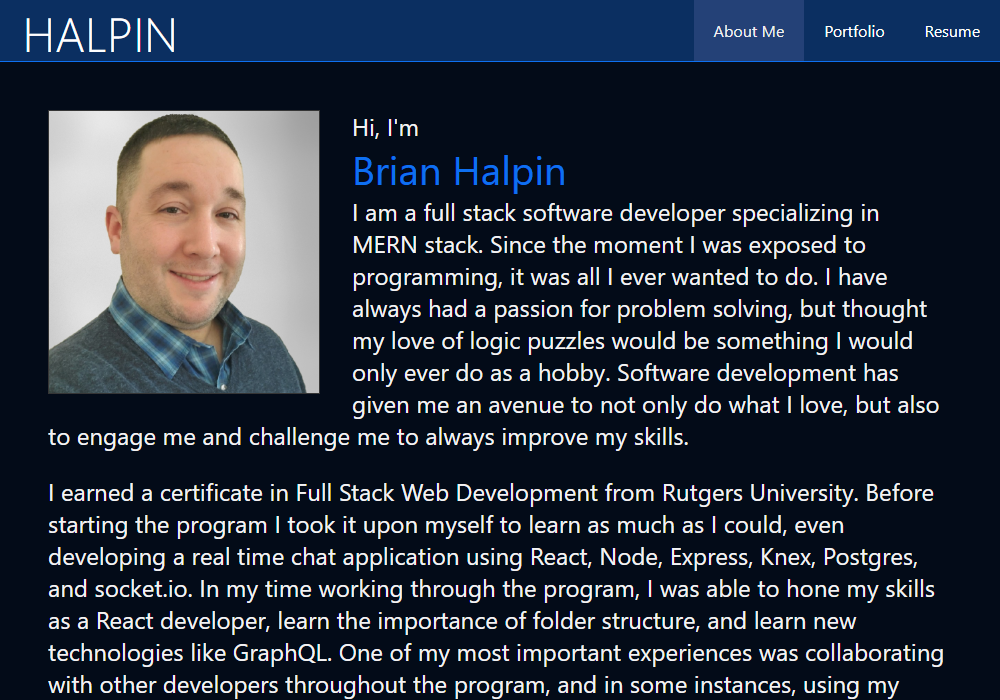
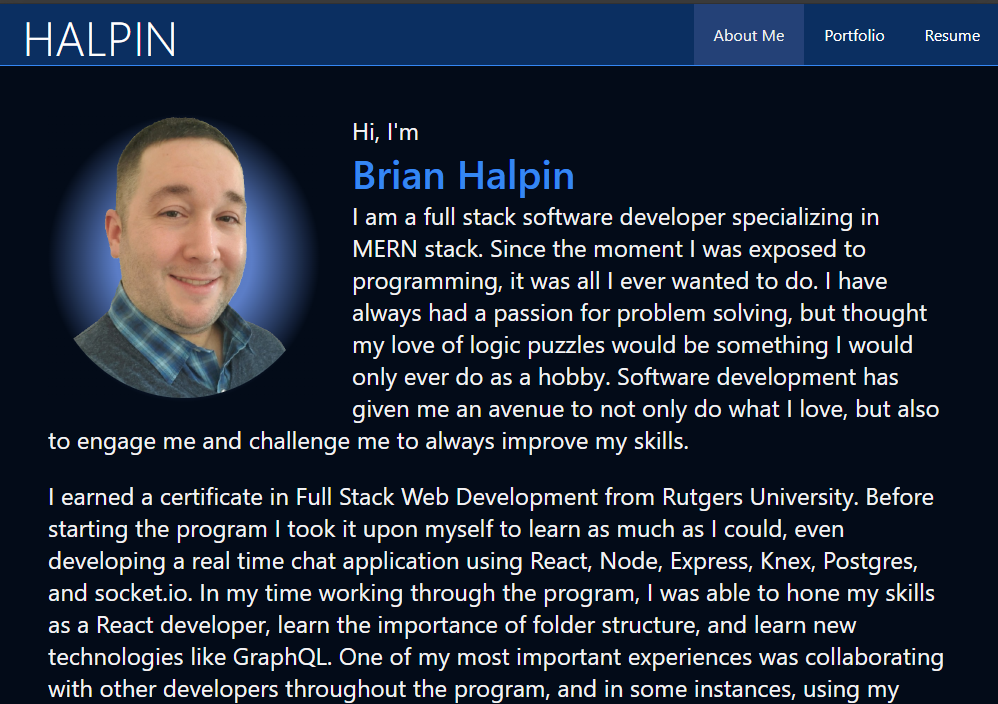
Update working of about section, and image

diff --git a/src/app/page.tsx b/src/app/page.tsx
@@ -1,11 +1,13 @@
+import React from 'react';
 import styles from '@/styles/components/about.module.css';
 
-export default function Home() {
-	return (
-		<div className={styles.aboutContainer}>
+function About () {
+    
+    return (
+        <div className={styles.aboutContainer}>
             <div className={styles.portraitContainer}>
                 <div className={styles.portrait}>
-                    <img src='/images/Brian-portrait.png' alt="Brian Halpin portrait"></img>
+                    <img src='/images/Brian-portrait-no-background.png' alt="Brian Halpin portrait"></img>
                 </div>
                 
             </div>
@@ -13,7 +15,15 @@ export default function Home() {
                     <p className={styles.statement}>Hi, I'm</p> 
                     <p id={styles.name}>Brian Halpin</p> 
                     <p className={styles.statement}>
-                        I am a full stack software developer specializing in MERN stack.  
+                        I'm a web developer, with years of professional experience, specializing in building and maintaining 
+                        full-stack applications using Next.js, TypeScript, and MySQL with Prisma and Sequelize. I've worked 
+                        both independently and as part of a collaborative team, contributing to the development of multiple 
+                        full-featured websites. My work includes maintaining legacy codebases, launching new projects 
+                        from the ground up, and developing a custom content management system to support dynamic site content.
+                        I also led the development of a full-scale content-driven website, as well as an admin dashboard that 
+                        enables seamless content management.
+                    </p>
+                    <p className={styles.statement}>
                         Since the moment I was exposed to programming, it was all I ever wanted to do.  
                         I have always had a passion for problem solving, but thought my love of logic 
                         puzzles would be something I would only ever do as a hobby. Software development 
@@ -21,13 +31,13 @@ export default function Home() {
                         challenge me to always improve my skills.
                     </p>    
                     <p className={styles.statement}>
-                        I earned a certificate in Full Stack Web Development from Rutgers University.  
-                        Before starting the program I took it upon myself to learn as much as I could, 
-                        even developing a real time chat application using React, Node, Express, Knex, 
-                        Postgres, and socket.io.  In my time working through the program, I was able to 
-                        hone my skills as a React developer, learn the importance of folder structure, 
-                        and learn new technologies like GraphQL.  One of my most important experiences 
-                        was collaborating with other developers throughout the program, and in some 
+                        I earned a certificate in Full Stack Web Development from Rutgers University
+                        back in 2022.  Before starting the program I took it upon myself to learn as 
+                        much as I could, even developing a real time chat application using React, Node, 
+                        Express, Knex, Postgres, and socket.io.  In my time working through the program, 
+                        I was able to hone my skills as a React developer, learn the importance of folder 
+                        structure, and learn new technologies like GraphQL.  One of my most important 
+                        experiences was collaborating with other developers throughout the program, and in some 
                         instances, using my many years of supervisory experience to help lead the team 
                         to complete the project effectively and efficiently.  
                     </p>    
@@ -39,5 +49,7 @@ export default function Home() {
 
                 </section>
         </div>
-	);
+    )
 }
+
+export default About;

diff --git a/src/app/about-me/page.tsx b/src/app/about-me/page.tsx
@@ -15,7 +15,10 @@ function About () {
                     <p className={styles.statement}>Hi, I'm</p> 
                     <p id={styles.name}>Brian Halpin</p> 
                     <p className={styles.statement}>
-                        I am a full stack software developer specializing in MERN stack.  
+                        I am a full stack software developer specializing in Next.js, TypeScript, Prisma, and Sequelize.
+                        I have extensive experience working with Next.js and React using both JavaScript and TypeScript.
+                    </p>
+                    <p className={styles.statement}>
                         Since the moment I was exposed to programming, it was all I ever wanted to do.  
                         I have always had a passion for problem solving, but thought my love of logic 
                         puzzles would be something I would only ever do as a hobby. Software development 

diff --git a/src/styles/components/about.module.css b/src/styles/components/about.module.css
@@ -15,18 +15,24 @@
 .portraitContainer {
     float: left;
     margin-right: 2rem;
+    /* background-color: var(--highlight); */
+    background: radial-gradient(closest-side, var(--portrait-background), var(--portrait-background), var(--background));
+    /* opacity: 0.1; */
+    /* border-radius: 50%;
+    overflow: hidden; */
 }
 .portrait img{
-    border: 0.1vw solid #353535;
+    /* border: 0.1vw solid #353535; */
     width:17rem;
+    border-radius: 50%;
 }
 
 #name{
-
+    font-weight: 500;
+    /* font-style:italic; */
     font-size: 2.5rem;
     margin-top: -1.5rem;
     color: var(--highlight);
-    /* font-family: 'Gill Sans', 'Gill Sans MT', Calibri, 'Trebuchet MS', sans-serif; */
 }
 .statement{
     font-size: 1.5rem;

diff --git a/src/styles/components/projects.module.css b/src/styles/components/projects.module.css
@@ -20,17 +20,21 @@
     max-width: 70rem;
     margin: auto;
     margin-bottom: 3rem;
+    overflow: hidden;
 }
 .projectCard img, .projectDetailContainer img {
     border-radius: 0.25rem;
     box-shadow: var(--card-shadow);
     transition: box-shadow 0.3s ease-out;
-    
     box-shadow: 0 0 0.5rem var(--highlight-shadow);
 }
 .projectCard img:hover {
-    box-shadow: 0 0 3rem var(--highlight-shadow);
-    
+    box-shadow: 0 0 1.25rem var(--highlight-shadow);
+    scale: 1.005;
+}
+.projectCard img:hover img {
+    width:150%;
+    height:150%;
 }
 .alternateCard {    
     grid-template-columns: 300px 500px;

diff --git a/src/styles/globals.css b/src/styles/globals.css
@@ -10,6 +10,7 @@
   --max-width: 1920px;
   --min-height: calc(100vh - 128px);
   --card-shadow: .5rem .5rem .5rem #0000004f;
+  --portrait-background: #5e77a5b9;
 }
 
 @media (prefers-color-scheme: dark) {
@@ -20,6 +21,8 @@
   --highlight: #3587f3;
   --highlight-shadow: #2682fc;
   --highlight-fade: #254277f8;
+  --portrait-background: #6f97eed0;
+  /* --portrait-background: #4c77ee; */
   }
 }
 

diff --git a/src/styles/components/header.module.css b/src/styles/components/header.module.css
@@ -127,7 +127,7 @@
         top: 60px;
         right: 0;
         transition: all 0.2s ease-in-out;
-        height: 150px;
+        /* height: 150px; */
     }
     .navLinkOpen > div:first-child {
         margin-top: 1px;

diff --git a/src/styles/components/resume.module.css b/src/styles/components/resume.module.css
@@ -32,6 +32,7 @@
 .resumeImage {
     position: relative;
     overflow: hidden;
+    z-index: 1;
 }
 .resumeContainer img {
     width: 18rem;
